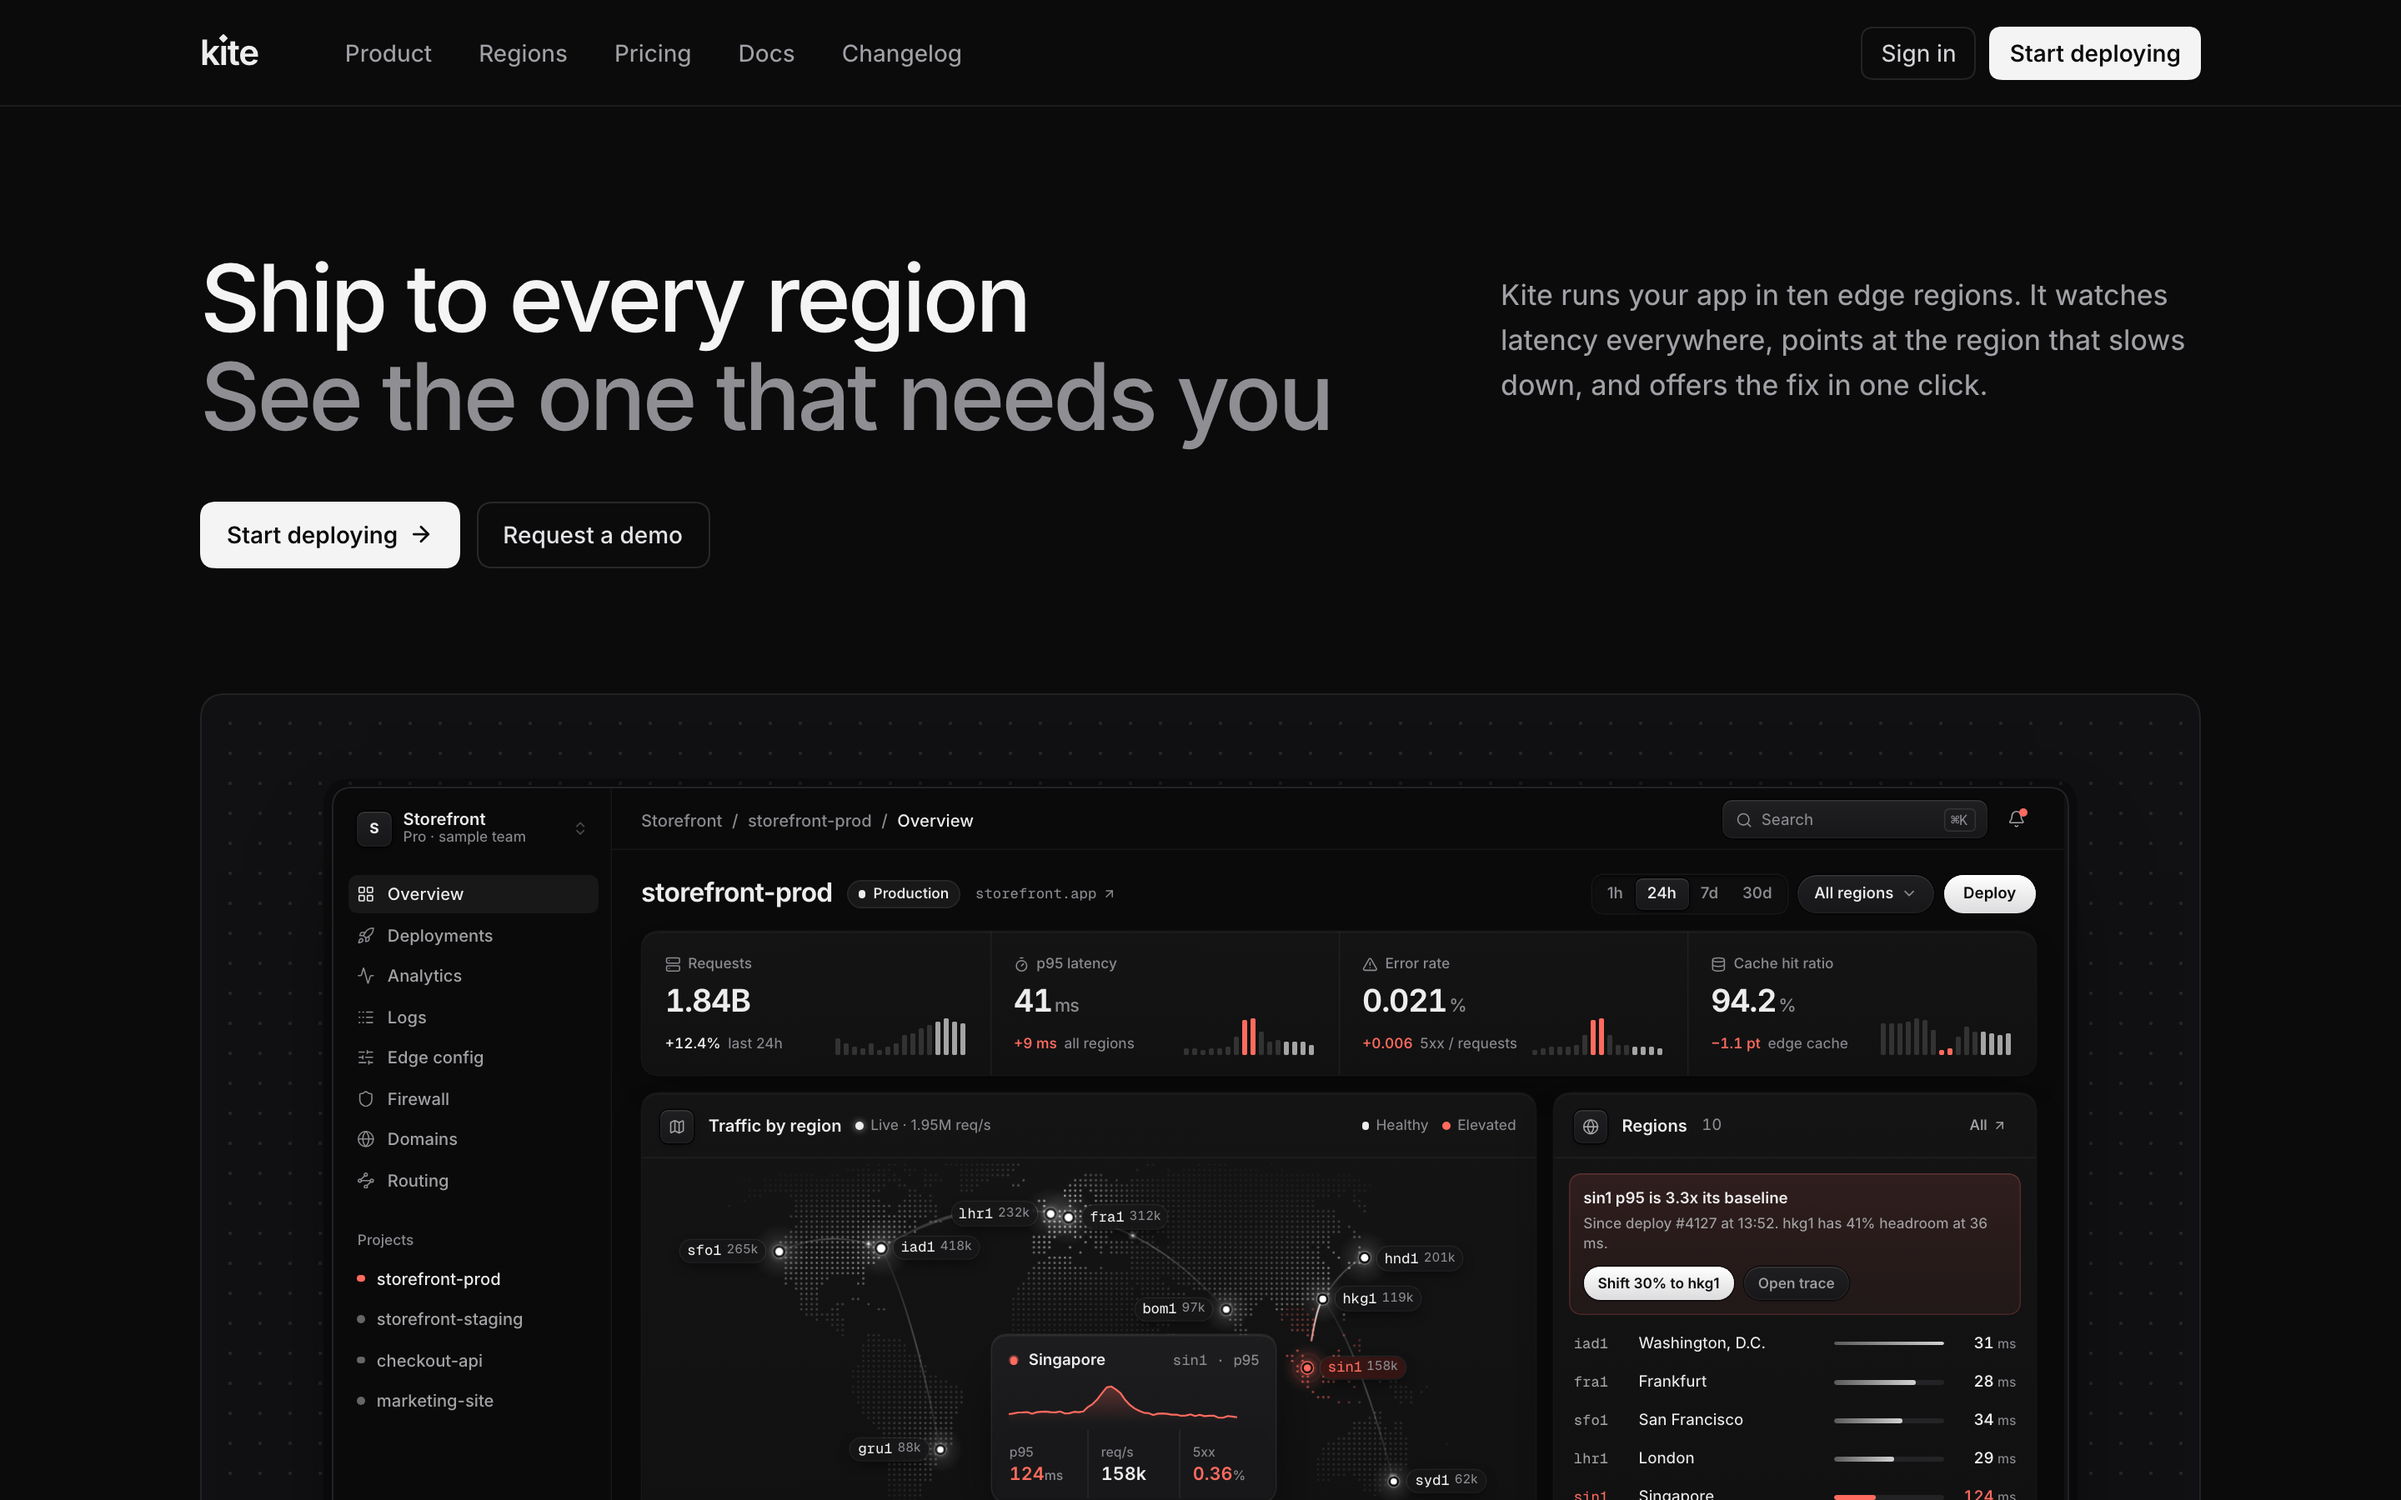
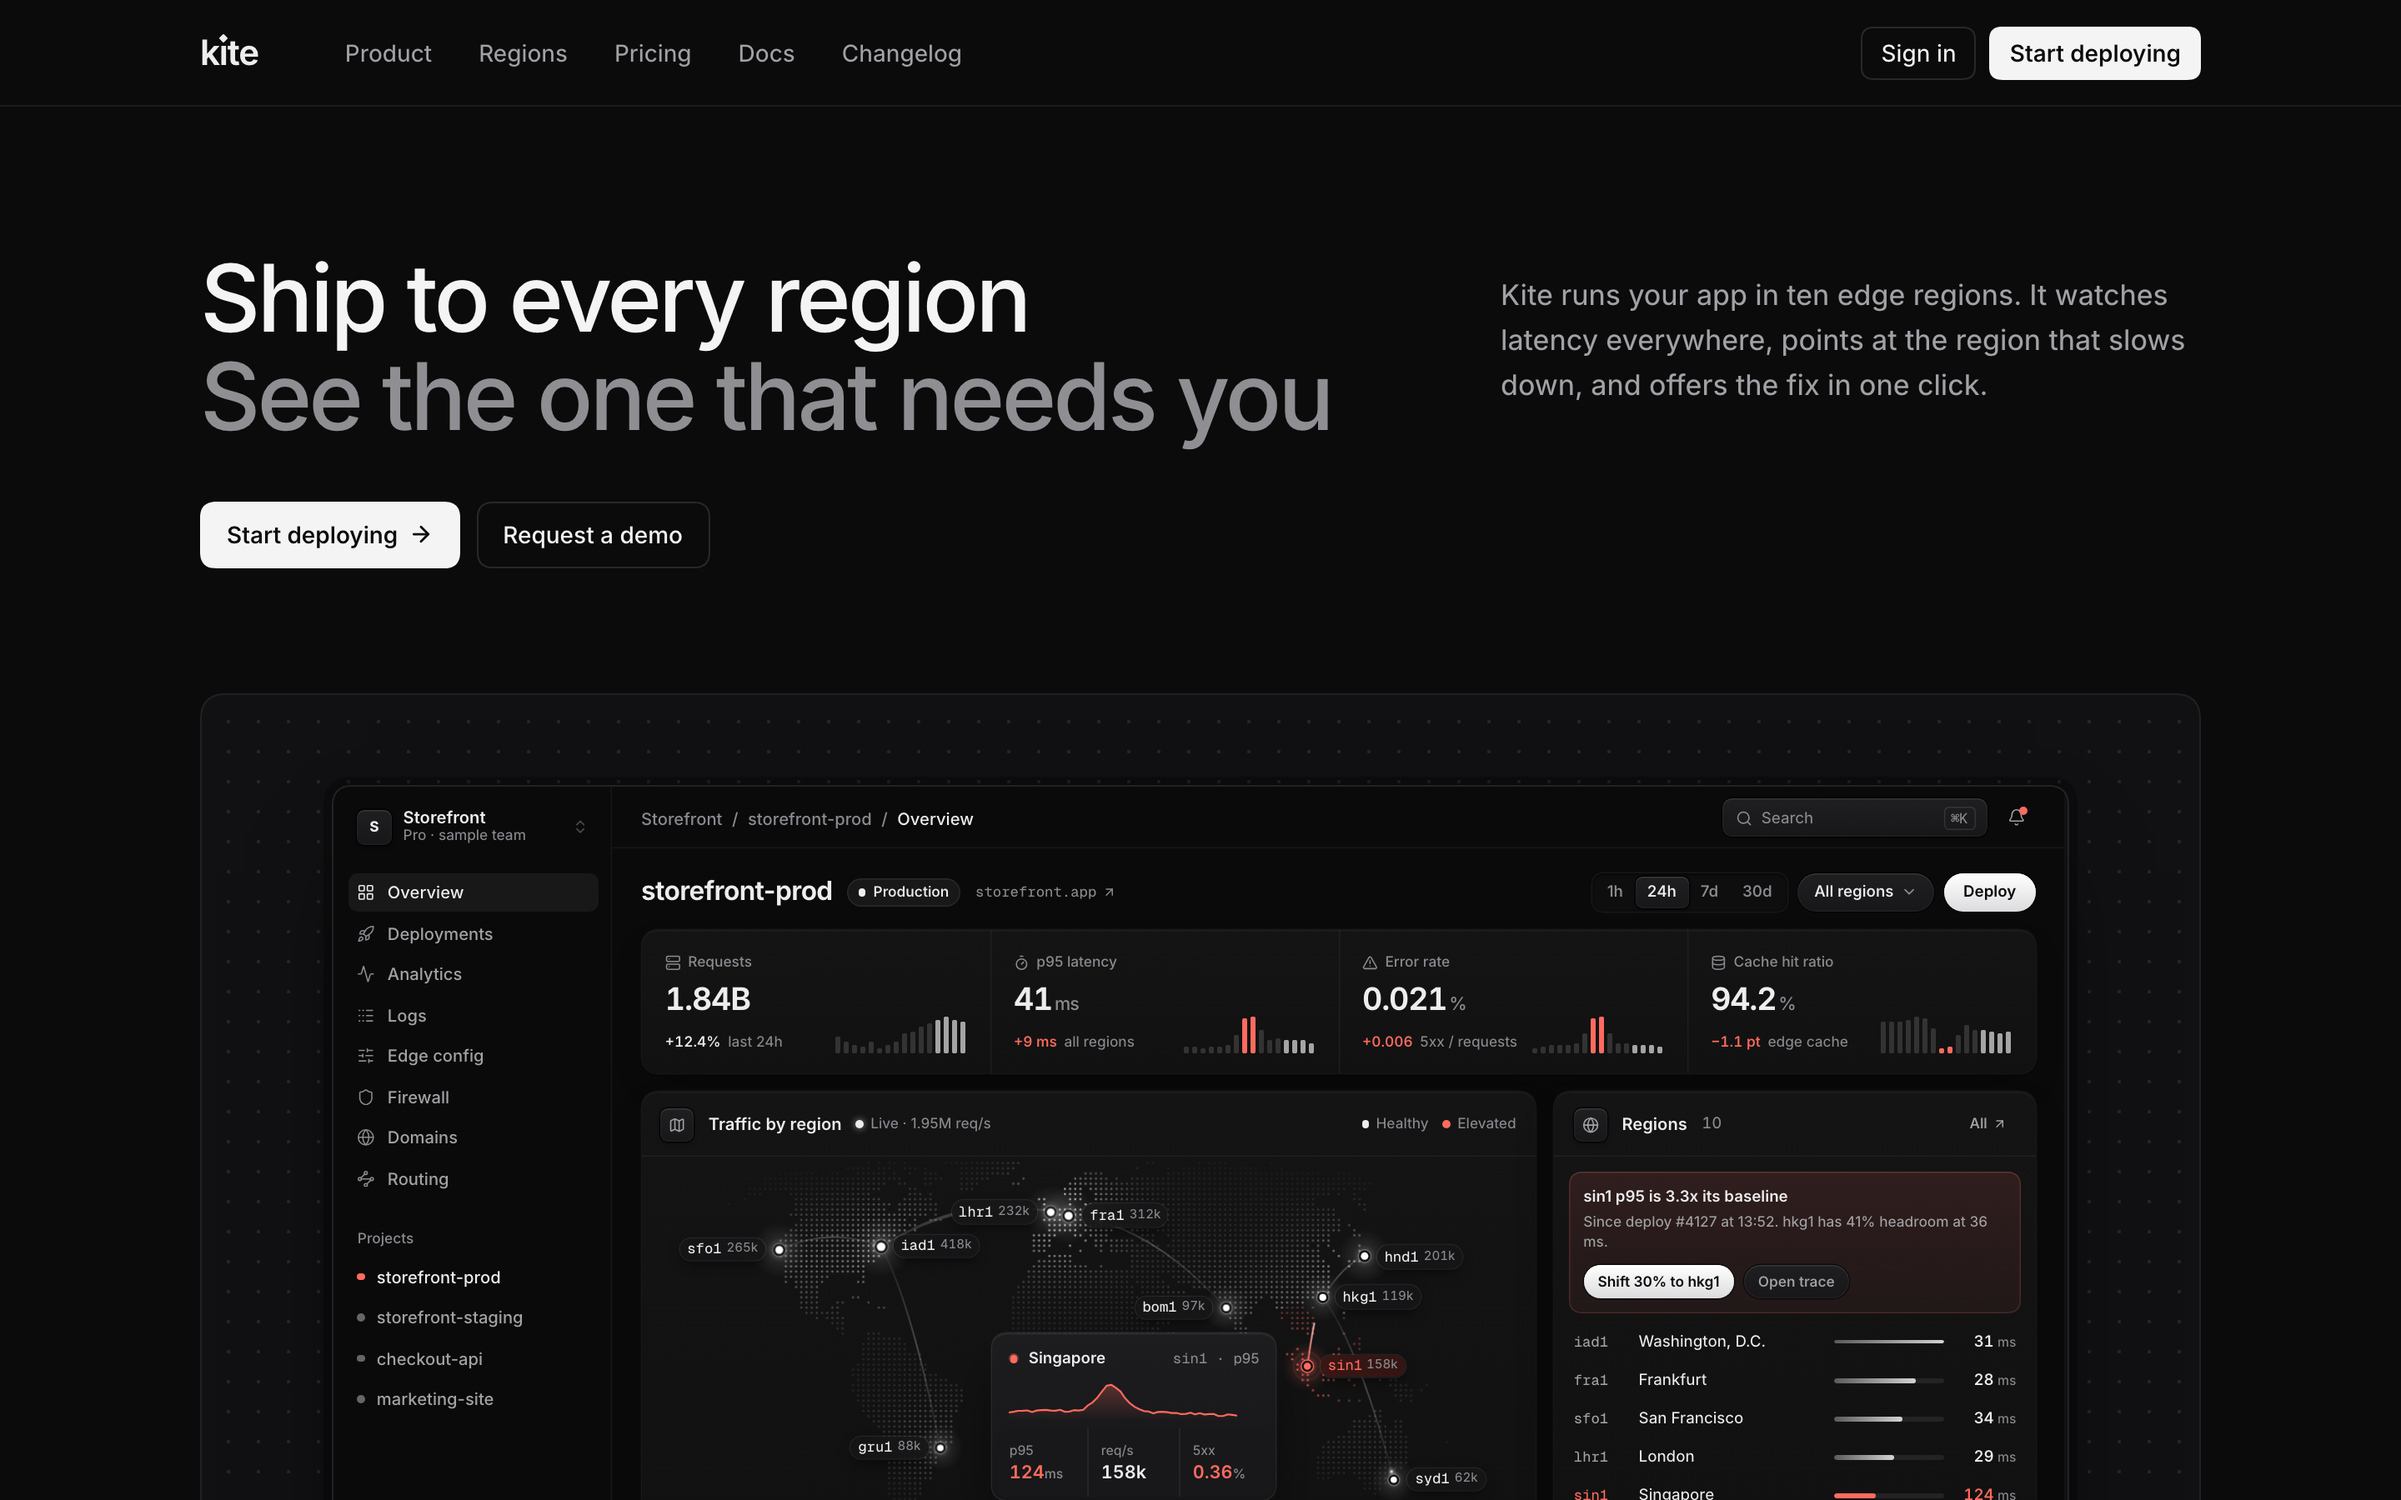
Kite hero: light-page variant (?theme=light) with the dark dashboard, A/B sheet

diff --git a/work/kite/app/src/Landing.tsx b/work/kite/app/src/Landing.tsx
@@ -22,16 +22,18 @@ export default function Landing() {
   const [dash, setDash] = useState(false)
   useEffect(() => { const id = window.setTimeout(() => setDash(true), 600); return () => clearTimeout(id) }, [])
   const C = 1200, WIN = 1040, ZOOM = (WIN - 2) / 1440
+  const L = new URLSearchParams(location.search).get('theme') === 'light'
+  const t = L ? { bg: '#f6f6f5', ink: '#171717', sub: '#5c5c5c', nav: '#4a4a4a', line: 'rgb(0 0 0 / 0.07)', ring: 'rgb(0 0 0 / 0.12)', stage: '#ededeb', dot: 'rgb(0 0 0 / 0.1)', btn: '#171717', btnInk: '#fff', soft: '#8f8f8f' } : { bg: '#0b0b0c', ink: '#f4f4f5', sub: '#a1a1a6', nav: '#a1a1a6', line: 'rgb(255 255 255 / 0.07)', ring: 'rgb(255 255 255 / 0.12)', stage: '#111113', dot: 'rgb(255 255 255 / 0.09)', btn: '#f4f4f5', btnInk: '#0b0b0c', soft: '#8e8e93' }
   return (
     <MotionConfig reducedMotion="user">
-      <div className="relative mx-auto h-[900px] w-[1440px] overflow-hidden bg-[#0b0b0c]" style={{ fontFamily: '"Inter Variable", system-ui, sans-serif' }}>
-        <header className="absolute inset-x-0 top-0 z-30 h-16 border-b border-[rgb(255_255_255/0.07)]">
+      <div className="relative mx-auto h-[900px] w-[1440px] overflow-hidden" style={{ background: t.bg, color: t.ink, fontFamily: '"Inter Variable", system-ui, sans-serif' }}>
+        <header className="absolute inset-x-0 top-0 z-30 h-16" style={{ borderBottom: `1px solid ${t.line}` }}>
           <div className="mx-auto flex h-full items-center" style={{ width: C }}>
-            <a href="#" className="flex h-10 items-center"><Wordmark size={21} /></a>
-            <nav aria-label="Main" className="ml-10"><ul className="flex items-center gap-1 text-[14px] font-[450] text-[#a1a1a6]">{['Product', 'Regions', 'Pricing', 'Docs', 'Changelog'].map((l) => <li key={l}><a href="#" className="st flex h-9 items-center rounded-[8px] px-3 hover:text-[#f4f4f5]">{l}</a></li>)}</ul></nav>
+            <a href="#" className="flex h-10 items-center" style={L ? { filter: 'invert(1)' } : undefined}><Wordmark size={21} /></a>
+            <nav aria-label="Main" className="ml-10"><ul className="flex items-center gap-1 text-[14px] font-[450]" style={{ color: t.nav }}>{['Product', 'Regions', 'Pricing', 'Docs', 'Changelog'].map((l) => <li key={l}><a href="#" className="st flex h-9 items-center rounded-[8px] px-3 hover:opacity-70">{l}</a></li>)}</ul></nav>
             <div className="ml-auto flex items-center gap-2">
-              <a href="#" className="st flex h-8 items-center rounded-[8px] px-3 text-[14px] font-[450] text-[#d4d4d8] shadow-[inset_0_0_0_1px_rgb(255_255_255/0.1)] hover:bg-[rgb(255_255_255/0.05)]">Sign in</a>
-              <a href="#" className="st flex h-8 items-center rounded-[8px] bg-[#f4f4f5] px-3 text-[14px] font-[550] text-[#0b0b0c] hover:bg-white">Start deploying</a>
+              <a href="#" className="st flex h-8 items-center rounded-[8px] px-3 text-[14px] font-[450] hover:opacity-80" style={{ color: t.ink, boxShadow: `inset 0 0 0 1px ${t.ring}` }}>Sign in</a>
+              <a href="#" className="st flex h-8 items-center rounded-[8px] px-3 text-[14px] font-[550] hover:opacity-90" style={{ background: t.btn, color: t.btnInk }}>Start deploying</a>
             </div>
           </div>
         </header>
@@ -39,26 +41,26 @@ export default function Landing() {
         <section className="relative mx-auto pt-[150px]" style={{ width: C }}>
           <div className="flex items-start justify-between">
             <div>
-              <h1 className="text-[56px] font-[500] leading-[1.06] tracking-[-0.035em] text-[#f4f4f5]">
+              <h1 className="text-[56px] font-[500] leading-[1.06] tracking-[-0.035em]" style={{ color: t.ink }}>
                 <Word i={0}>Ship</Word> <Word i={1}>to</Word> <Word i={2}>every</Word> <Word i={3}>region</Word><br />
-                <span className="text-[#8e8e93]"><Word i={4}>See</Word> <Word i={5}>the</Word> <Word i={6}>one</Word> <Word i={7}>that</Word> <Word i={8}>needs</Word> <Word i={9}>you</Word></span>
+                <span style={{ color: t.soft }}><Word i={4}>See</Word> <Word i={5}>the</Word> <Word i={6}>one</Word> <Word i={7}>that</Word> <Word i={8}>needs</Word> <Word i={9}>you</Word></span>
               </h1>
               <Up at={0.55} className="mt-8 flex items-center gap-2.5">
-                <a href="#" className="st flex h-10 items-center gap-1.5 rounded-[10px] bg-[#f4f4f5] px-4 text-[14px] font-[550] text-[#0b0b0c] hover:bg-white">Start deploying<ArrowRight size={15} strokeWidth={2.2} /></a>
-                <a href="#" className="st flex h-10 items-center rounded-[10px] px-4 text-[14px] font-[500] text-[#e4e4e7] shadow-[inset_0_0_0_1px_rgb(255_255_255/0.12)] hover:bg-[rgb(255_255_255/0.05)]">Request a demo</a>
+                <a href="#" className="st flex h-10 items-center gap-1.5 rounded-[10px] px-4 text-[14px] font-[550] hover:opacity-90" style={{ background: t.btn, color: t.btnInk }}>Start deploying<ArrowRight size={15} strokeWidth={2.2} /></a>
+                <a href="#" className="st flex h-10 items-center rounded-[10px] px-4 text-[14px] font-[500] hover:opacity-80" style={{ color: t.ink, boxShadow: `inset 0 0 0 1px ${t.ring}` }}>Request a demo</a>
               </Up>
             </div>
-            <Up at={0.45} className="mt-[14px] w-[420px]"><p className="text-[17px] leading-[27px] text-[#a1a1a6]">Kite runs your app in ten edge regions. It watches latency everywhere, points at the region that slows down, and offers the fix in one click.</p></Up>
+            <Up at={0.45} className="mt-[14px] w-[420px]"><p className="text-[17px] leading-[27px]" style={{ color: t.sub }}>Kite runs your app in ten edge regions. It watches latency everywhere, points at the region that slows down, and offers the fix in one click.</p></Up>
           </div>
         </section>
 
         {/* Cursor-style stage: a full-width panel with a faint dot grid, the dashboard window floating inside */}
-        <motion.div className="absolute left-1/2 top-[416px] -translate-x-1/2 overflow-hidden rounded-[16px] border border-[rgb(255_255_255/0.07)]" style={{ width: C, height: 520, background: '#111113' }}
+        <motion.div className="absolute left-1/2 top-[416px] -translate-x-1/2 overflow-hidden rounded-[16px]" style={{ width: C, height: 520, background: t.stage, boxShadow: `inset 0 0 0 1px ${t.line}` }}
           initial={{ opacity: 0, y: 30 }} animate={{ opacity: 1, y: 0 }} transition={{ delay: 0.35, duration: 1.2, ease: ease.out }}>
-          <div aria-hidden className="absolute inset-0" style={{ backgroundImage: 'radial-gradient(rgb(255 255 255 / 0.09) 1px, transparent 1.2px)', backgroundSize: '18px 18px', backgroundPosition: '8px 8px' }} />
+          <div aria-hidden className="absolute inset-0" style={{ backgroundImage: `radial-gradient(${t.dot} 1px, transparent 1.2px)`, backgroundSize: '18px 18px', backgroundPosition: '8px 8px' }} />
           <motion.div className="absolute left-1/2 top-[56px] -translate-x-1/2 overflow-hidden rounded-[12px]" style={{ width: WIN, boxShadow: '0 0 0 1px rgb(255 255 255 / 0.1), 0 30px 60px -20px rgb(0 0 0 / 0.8), 0 0 0 6px rgb(0 0 0 / 0.25)' }}
             initial={{ opacity: 0, y: 24 }} animate={{ opacity: 1, y: 0 }} transition={{ delay: 0.55, duration: 1.2, ease: ease.out }}>
-            <div role="img" aria-label="The Kite dashboard: traffic by region, latency and deployments, sample data" inert style={{ height: 900 * ZOOM }}>
+            <div role="img" aria-label="The Kite dashboard: traffic by region, latency and deployments, sample data" inert style={{ height: 900 * ZOOM, color: 'var(--ink)' }}>
               <div style={{ zoom: ZOOM }}>{dash ? <App embedded /> : <div className="h-[900px] w-[1440px] bg-[var(--canvas)]" />}</div>
             </div>
           </motion.div>

diff --git a/work/kite/landing/ab.html b/work/kite/landing/ab.html
@@ -1,0 +1,4 @@
+<!doctype html><meta charset=utf-8><body style="margin:0;background:#888;font:600 14px Inter,sans-serif;color:#111"><div style="display:grid;grid-template-columns:repeat(2,680px);gap:20px;padding:20px 30px">
+<div><div style="margin:0 0 6px">A · dark page</div><img src="hero-2x.png" style="width:680px;border-radius:8px;display:block"></div>
+<div><div style="margin:0 0 6px">B · light page</div><img src="hero-light-2x.png" style="width:680px;border-radius:8px;display:block"></div>
+</div>
